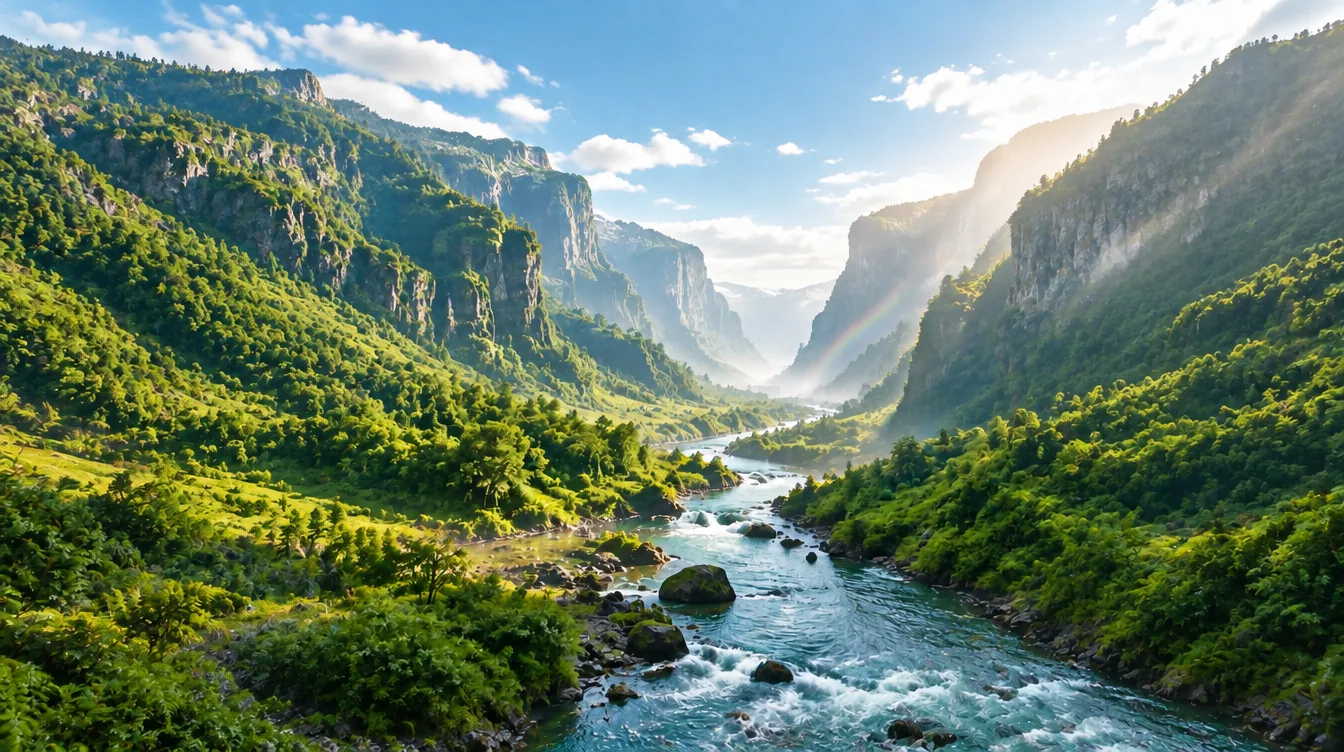
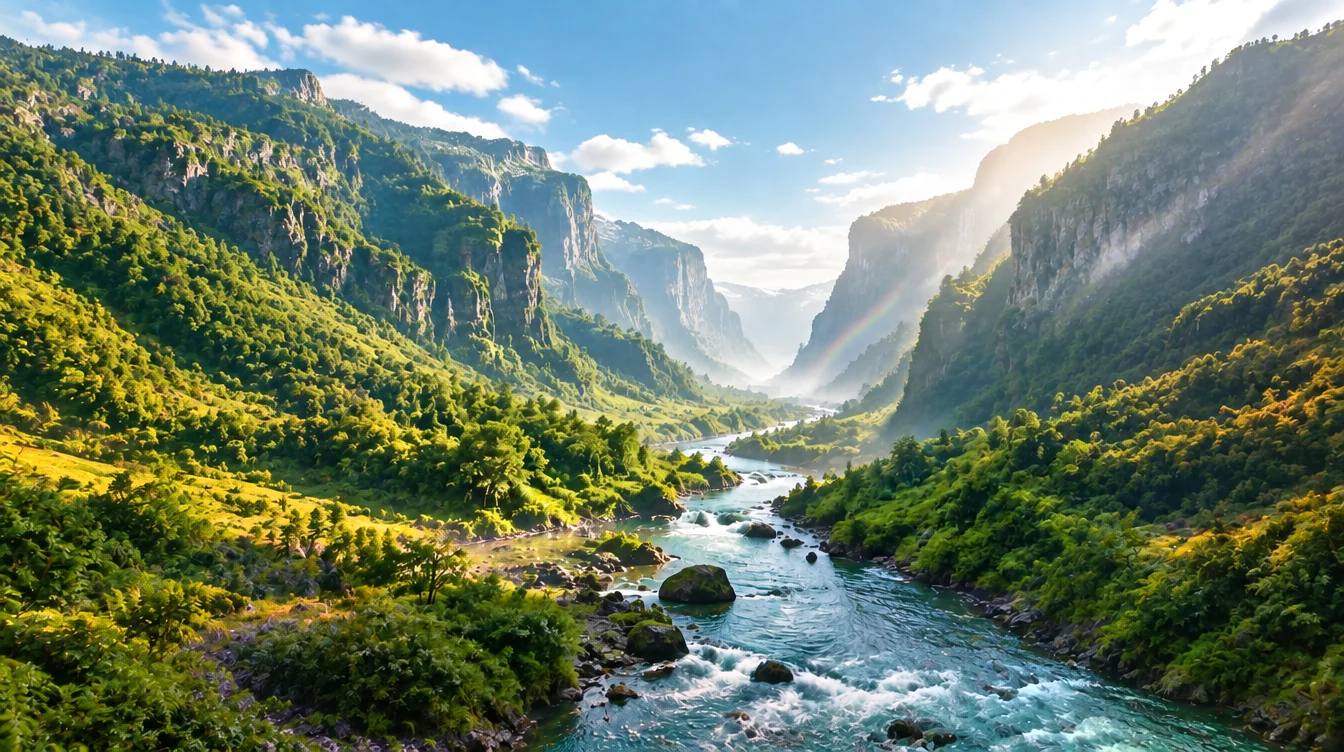
Web Design demo card: sharper, cleaner, and it flies in when you rest on it
Sharper: drawn at the screen's full density (up to 2x) on every machine,
from the 4K photograph on wide screens, sampled a half-step crisper with 8x
anisotropic filtering, and graded with a touch more contrast and colour.
The governor still steps it down, now by at most a fifth, if frames run long.

Cleaner: a hard diagonal band in the sky is gone (a ray that ran past the
far layer's map was shaded with extra haze); the plates are colour-matched
to the photograph, and the mattes are narrower.

The fly-in: resting the pointer still on the card for half a second flies
it in (3x), holding it faster (5x). The flight also moves more from the
start, so the push-in reads without either.

diff --git a/src/components/web/DemoFrame.tsx b/src/components/web/DemoFrame.tsx
@@ -15,11 +15,15 @@ gsap.registerPlugin(ScrollTrigger);
 const PAD = 9;
 const BAR = 32;
 /** seconds for one flight into the canyon */
-const PERIOD = 26;
+const PERIOD = 22;
 /** where a flight is once it has come out of the light: where it waits to begin */
 const CLEAR = 0.09;
-/** how much faster it travels while the card is held */
-const DIVE = 7;
+/** how much faster it travels while the pointer rests on the card, and
+ *  while the card is held */
+const REST = 3;
+const DIVE = 5;
+/** seconds the pointer has to be still on the card before it flies in */
+const REST_AFTER = 0.45;
 /** the card's own lean toward the pointer, degrees */
 const LEAN_Y = 8;
 const LEAN_X = 5.5;
@@ -137,6 +141,8 @@ export default function DemoFrame() {
     let started = false;
     let inView = false;
     const gov = { t0: 0, n: 0, slow: 0 };
+    // ?cardd: the card's state on window, for the design-loop tools
+    const dbgCard = u.has("cardd");
     const s = {
       w: 0,
       h: 0,
@@ -154,6 +160,8 @@ export default function DemoFrame() {
       frac: CLEAR,
       speed: 1,
       held: false,
+      over: false,
+      rest: 0,
       last: -1,
       still: true, // a frame is owed (after a resize, or once for reduced motion)
       odd: false,
@@ -166,10 +174,10 @@ export default function DemoFrame() {
     // Sharp where the machine can afford it. Integrated graphics draw the card
     // at three quarters of the size and let the browser scale it: it is a
     // photograph in motion, and the frame time matters more than the pixels.
-    let weak = false;
-    // the governor's share: it steps the canvas down while frames run long
+    // Drawn at the screen's full density: the picture is the point of the
+    // section. The governor's share steps it down only if frames run long.
     let govern = 1;
-    const dpr = () => Math.min(window.devicePixelRatio || 1, cls === "high" ? 2 : cls === "mid" ? 1.5 : 1) * (weak ? 0.75 : 1) * govern * resScale;
+    const dpr = () => Math.min(window.devicePixelRatio || 1, 2) * govern * resScale;
     const size = () => {
       if (!card || s.w < 2 || s.h < 2) return;
       // the canvas is larger than the window: it overhangs the bezel
@@ -203,7 +211,7 @@ export default function DemoFrame() {
         viewport.setAttribute("data-still", "");
         return;
       }
-      weak = gpuClass(card.gpu) !== "ok";
+      const weak = gpuClass(card.gpu) !== "ok";
       card.quality(u.has("cardq") ? Number(u.get("cardq")) : weak || cls === "low" ? 0.65 : 1);
       size();
       card.ready.then(
@@ -249,6 +257,11 @@ export default function DemoFrame() {
       root.setAttribute("data-used", "");
     };
     const onUp = () => (s.held = false);
+    const onOver = () => (s.over = true);
+    const onOut = () => {
+      s.over = false;
+      s.held = false;
+    };
     const hot = () => document.documentElement.setAttribute("data-cursor-hot", "");
     const cold = () => document.documentElement.removeAttribute("data-cursor-hot");
     if (!reduce) {
@@ -258,6 +271,8 @@ export default function DemoFrame() {
       window.addEventListener("pointercancel", onUp);
       viewport.addEventListener("pointerenter", hot);
       viewport.addEventListener("pointerleave", cold);
+      viewport.addEventListener("pointerenter", onOver);
+      viewport.addEventListener("pointerleave", onOut);
     }
 
     const stop = addFrameJob({
@@ -282,8 +297,8 @@ export default function DemoFrame() {
           gov.n++;
           if (raw > Math.max(frameInterval(), 1 / 60) * 1.45) gov.slow++;
           if (time - gov.t0 > 2) {
-            if (gov.n > 30 && gov.slow / gov.n > 0.25 && govern > 0.6) {
-              govern = Math.max(0.6, govern - 0.15);
+            if (gov.n > 30 && gov.slow / gov.n > 0.25 && govern > 0.8) {
+              govern = Math.max(0.8, govern - 0.1);
               size();
             }
             gov.t0 = time;
@@ -317,7 +332,12 @@ export default function DemoFrame() {
         const k = 1 - Math.exp(-dt * (idle ? 1.4 : 5));
         s.tx += (gx - s.tx) * k;
         s.ty += (gy - s.ty) * k;
-        s.speed += ((s.held ? DIVE : 1) - s.speed) * (1 - Math.exp(-dt * 2.6));
+        // the pointer resting still on the card flies it in; holding, faster
+        const resting = s.over && !reduce && time - s.lastMove > REST_AFTER;
+        s.rest = resting ? 1 : 0;
+        if (resting) root.setAttribute("data-used", "");
+        const target = s.held ? DIVE : resting ? REST : 1;
+        s.speed += (target - s.speed) * (1 - Math.exp(-dt * (target > s.speed ? 1.8 : 2.6)));
         if (uprightRef.current || holdFrac >= 0) s.frac = (s.frac + (dt * s.speed) / PERIOD) % 1;
         s.upright = uprightRef.current;
         if (drop !== "notilt") tiltEl.style.transform = `rotateY(${(s.tx * LEAN_Y).toFixed(3)}deg) rotateX(${(-s.ty * LEAN_X).toFixed(3)}deg)`;
@@ -327,6 +347,7 @@ export default function DemoFrame() {
         s.odd = !s.odd;
         if (frameInterval() < 1 / 85 && s.odd && !s.still) return;
         s.still = false;
+        if (dbgCard) (window as unknown as { __card: unknown }).__card = { frac: +s.frac.toFixed(4), speed: +s.speed.toFixed(2), held: s.held, rest: s.rest, upright: uprightRef.current, govern };
         if (drop !== "nodraw") card.draw(s.tx, s.ty, holdFrac >= 0 ? holdFrac : s.frac, time, cls !== "low");
       },
     });
@@ -344,6 +365,8 @@ export default function DemoFrame() {
       window.removeEventListener("pointercancel", onUp);
       viewport.removeEventListener("pointerenter", hot);
       viewport.removeEventListener("pointerleave", cold);
+      viewport.removeEventListener("pointerenter", onOver);
+      viewport.removeEventListener("pointerleave", onOut);
       cold();
       card?.dispose();
     };
@@ -400,7 +423,8 @@ export default function DemoFrame() {
                 <span className="web-card__hint-fine">Move to look around</span>
                 <span className="web-card__hint-touch">Drag to look</span>
                 <i />
-                Hold to dive
+                <span className="web-card__hint-fine">Hold still to fly in</span>
+                <span className="web-card__hint-touch">Hold to fly in</span>
               </span>
             </div>
           </div>

diff --git a/src/components/web/depthCard.ts b/src/components/web/depthCard.ts
@@ -29,7 +29,7 @@
    no layout.
    ───────────────────────────────────────────────────────────────────────── */
 
-export const LAND = { large: "/images/card/canyon-2560.webp", small: "/images/card/canyon-1600.webp" };
+export const LAND = { full: "/images/card/canyon-4096.webp", large: "/images/card/canyon-2560.webp", small: "/images/card/canyon-1600.webp" };
 const FILES = ["/images/card/canyon-mid.webp", "/images/card/canyon-far.webp", "/images/card/canyon-a.png", "/images/card/canyon-b.png"];
 /** the photograph's own shape */
 const IMG_ASPECT = 4096 / 2294;
@@ -170,15 +170,19 @@ float march(int L, float d0, float d1, float steps, out vec2 qh) {
 // what is behind the ferns is the mid plate; behind the cliffs, the far plate
 vec3 picture(int L, vec2 q, float z) {
   float mag = (z - d) / z;
-  float lodL = log2(max(1.0, uTpp.x * mag));
+  // a little under the ideal mip: crisp rather than soft (the photograph is
+  // 4K and the anisotropic filter keeps it from shimmering)
+  float lodL = max(0.0, log2(max(1.0, uTpp.x * mag)) - 0.5);
   vec3 c = textureLod(uLand, q, lodL).rgb;
   if (L > 0) {
     float lodP = log2(max(1.0, uTpp.y * mag));
-    // the mattes, widened: nothing of what was in front is left on the edge
-    float near = smoothstep(0.03, 0.22, textureLod(uA, q, 3.2).b);
+    // the mattes, a little wider than the layer they cut: nothing of what was
+    // in front is left on its edge, and no wider (past the edge the plates
+    // show what they painted in, not the view, and it drew a seam)
+    float near = smoothstep(0.08, 0.34, textureLod(uA, q, 1.6).b);
     if (near > 0.003) c = mix(c, textureLod(uMid, q, lodP).rgb, near);
     if (L > 1) {
-      float mid = smoothstep(0.03, 0.22, textureLod(uB, q, 3.2).b);
+      float mid = smoothstep(0.1, 0.36, textureLod(uB, q, 1.6).b);
       if (mid > 0.003) c = mix(c, textureLod(uFar, q, lodP).rgb, mid);
     }
   }
@@ -195,7 +199,12 @@ vec3 picture(int L, vec2 q, float z) {
   }
   // the air between the camera and the far walls, thicker as it flies
   float far = smoothstep(2.0, 11.0, z - d);
-  return mix(c, HAZE, far * (0.1 + 0.45 * smoothstep(0.3, 1.0, uFlight)));
+  c = mix(c, HAZE, far * (0.06 + 0.45 * smoothstep(0.3, 1.0, uFlight)));
+  // a finishing grade: a touch more contrast and colour, the look of a
+  // graded photograph rather than a flat one
+  float l = dot(c, vec3(0.2126, 0.7152, 0.0722));
+  c = mix(vec3(l), c, 1.1);
+  return clamp((c - 0.5) * 1.07 + 0.5, 0.0, 1.0);
 }
 
 void main() {
@@ -206,7 +215,7 @@ void main() {
   // the camera: forward along the flight, sideways with the lean. The glass
   // is the plane that does not move when it leans.
   // it gathers speed: most of a run is spent near the start, among the ferns
-  d = uTravel * pow(uFlight, 1.7);
+  d = uTravel * pow(uFlight, 1.25);
   o = uTilt * vec2(uLean, uLean * 0.62);
   pg = p - uV - o * disp(uGlassD);
 
@@ -244,7 +253,9 @@ void main() {
     // nothing met: the far haze
     if (T > 0.02) {
       vec2 qf = clamp(ray(ZF), 0.0, 1.0);
-      col += T * inside * mix(textureLod(uFar, qf, 0.0).rgb, HAZE, 0.4);
+      // shaded exactly as a hit on the far layer would be: a different
+      // shade here drew a hard diagonal where the sky runs past the far map
+      col += T * inside * picture(2, qf, ZF);
       alpha += T * inside;
     }
 
@@ -469,7 +480,7 @@ export function createDepthCard(
     gl.texParameteri(gl.TEXTURE_2D, gl.TEXTURE_MAG_FILTER, gl.LINEAR);
     gl.texParameteri(gl.TEXTURE_2D, gl.TEXTURE_WRAP_S, gl.CLAMP_TO_EDGE);
     gl.texParameteri(gl.TEXTURE_2D, gl.TEXTURE_WRAP_T, gl.CLAMP_TO_EDGE);
-    if (aniso && i === 0) gl.texParameterf(gl.TEXTURE_2D, aniso.TEXTURE_MAX_ANISOTROPY_EXT, 4);
+    if (aniso && i === 0) gl.texParameterf(gl.TEXTURE_2D, aniso.TEXTURE_MAX_ANISOTROPY_EXT, 8);
     size[i] = w;
   };
 
@@ -506,7 +517,10 @@ export function createDepthCard(
   };
 
   const ready = (async () => {
-    const all = await Promise.all([large ? LAND.large : LAND.small, ...FILES].map(bitmap));
+    // the 4K photograph wherever the window is drawn wider than the 2560 one
+    // could fill without magnifying it
+    const dense = typeof window !== "undefined" && window.innerWidth * (window.devicePixelRatio || 1) >= 1800;
+    const all = await Promise.all([large ? (dense ? LAND.full : LAND.large) : LAND.small, ...FILES].map(bitmap));
     if (!alive) return;
     all.forEach((im, i) => {
       upload(i, im, im.width, false);

diff --git a/design-loop/card-textures.py b/design-loop/card-textures.py
@@ -191,8 +191,41 @@ h_far = fblur(d_far, 14)
 save('canyon-a.png', h_near, wm, blur(near, 1.2))
 print('surfaces: near', np.percentile(h_near, [1, 50, 99]).round(2), 'mid', np.percentile(h_mid, [1, 50, 99]).round(2), 'far', np.percentile(h_far, [1, 50, 99]).round(2))
 save('canyon-b.png', h_mid, h_far, blur(mid, 1.4))
-Image.fromarray((pm * 255).astype(np.uint8)).save(OUT + 'canyon-mid.webp', quality=82, method=6)
-Image.fromarray((pf * 255).astype(np.uint8)).save(OUT + 'canyon-far.webp', quality=82, method=6)
+
+
+def match(plate, ref, where, r=48):
+    """The plates were painted separately and come out a shade off the
+    photograph: where they meet, a seam. Lift each plate by the photograph's
+    own local colour, measured where the two show the same thing and carried
+    smoothly into what the plate painted in."""
+    m = where.astype(np.float32)
+    out = plate.copy()
+    for ch in range(3):
+        num = fblur(ref[..., ch] * m, r)
+        den = fblur(plate[..., ch] * m, r)
+        cov = fblur(m, r)
+        gain = np.where(cov > 0.02, (num + 1e-3) / (den + 1e-3), np.nan)
+        have = np.isfinite(gain)
+        g = np.where(have, gain, 0.0)
+        hv = have.astype(np.float32)
+        for rr in (32, 64, 128, 256, 512):
+            nn = fblur(g * hv, rr)
+            dd = fblur(hv, rr)
+            fill = (hv < 0.5) & (dd > 0.02)
+            g = np.where(fill, nn / np.maximum(dd, 1e-4), g)
+            hv = np.where(fill, 1.0, hv)
+        g = np.where(hv > 0.5, g, 1.0)
+        out[..., ch] = plate[..., ch] * np.clip(fblur(g, 8), 0.7, 1.4)
+    return np.clip(out, 0, 1)
+
+
+pm_fit = match(pm, rgb, unchanged)
+pf_fit = match(pf, pm_fit, unchanged_f)
+for name, a, b, w in (('mid', pm, pm_fit, unchanged), ('far', pf, pf_fit, unchanged_f)):
+    ref = rgb if name == 'mid' else pm_fit
+    print(name, 'mean error where unchanged: before', round(float(np.abs(a - ref)[w].mean()), 4), 'after', round(float(np.abs(b - ref)[w].mean()), 4))
+Image.fromarray((pm_fit * 255).astype(np.uint8)).save(OUT + 'canyon-mid.webp', quality=86, method=6)
+Image.fromarray((pf_fit * 255).astype(np.uint8)).save(OUT + 'canyon-far.webp', quality=86, method=6)
 if os.path.exists(OUT + 'canyon-depth.png'):
     os.remove(OUT + 'canyon-depth.png')
 for f in sorted(os.listdir(OUT)):
